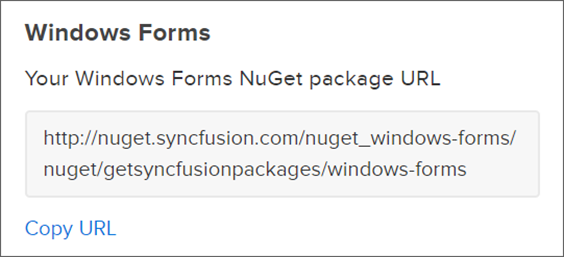
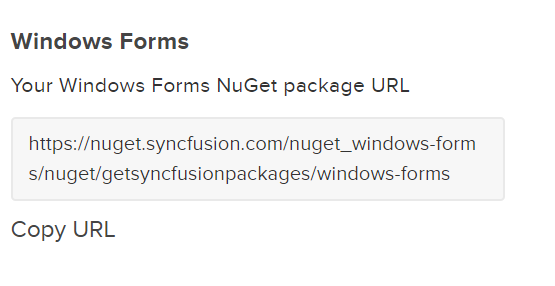
EXT-3461-NuGet-Feed-Changes

diff --git a/WindowsForms/NuGet-Packages.md b/WindowsForms/NuGet-Packages.md
@@ -22,7 +22,7 @@ You should get the private Syncfusion Windows Forms NuGet feed URL to install or
 
 2. Click the Copy URL label under Windows Forms platform to copy the Syncfusion Windows Forms platform NuGet feed to clipboard or directly use the following URL: 
 
-    [http://nuget.syncfusion.com/nuget_windowsforms/nuget/getsyncfusionpackages/windows-forms](http://nuget.syncfusion.com/nuget_windowsforms/nuget/getsyncfusionpackages/windows-forms) 
+    [https://nuget.syncfusion.com/nuget_windows-forms/nuget/getsyncfusionpackages/windows-forms](https://nuget.syncfusion.com/nuget_windows-forms/nuget/getsyncfusionpackages/windows-forms) 
 
     ![](NuGet_Packages_Images/img1.png)
 
@@ -40,7 +40,7 @@ You should get the private Syncfusion Windows Forms NuGet feed URL to install or
 
     **Name:** Name of the package listed in the available package sources.
     **Source:** Syncfusion Windows Forms NuGet Feed URL      
-    [http://nuget.syncfusion.com/nuget_windowsforms/nuget/getsyncfusionpackages/windows-forms](http://nuget.syncfusion.com/nuget_windowsforms/nuget/getsyncfusionpackages/windows-forms).
+    [https://nuget.syncfusion.com/nuget_windows-forms/nuget/getsyncfusionpackages/windows-forms](https://nuget.syncfusion.com/nuget_windows-forms/nuget/getsyncfusionpackages/windows-forms).
 
 5.	Click the **Update** button to add the name and source details to package sources. 
 
@@ -87,7 +87,7 @@ To reference the Syncfusion Windows Forms component using the Package Manager Co
     Install-Package Syncfusion.Chart.Windows46
 
     #install specified package in default project with specified Package Source
-    Install-Package Syncfusion.Chart.Windows46-Source “http://nuget.syncfusion.com/nuget_windowsforms/nuget/getsyncfusionpackages/windows-forms”
+    Install-Package Syncfusion.Chart.Windows46-Source “https://nuget.syncfusion.com/nuget_windows-forms/nuget/getsyncfusionpackages/windows-forms”
 
     #install specified package in specified project 
     Install-Package Syncfusion.Chart.Windows46 -ProjectName SyncfusionDemoApplication
@@ -117,7 +117,7 @@ The NuGet Command Line Interface (CLI), nuget.exe, provides the full extent of N
     **For example:**
 
     ~~~
-    nuget.exe Sources Add –Name “Syncfusion Source” –Source “http://nuget.syncfusion.com/nuget_windowsforms/nuget/getsyncfusionpackages/windows-forms”
+    nuget.exe Sources Add –Name “Syncfusion Source” –Source “https://nuget.syncfusion.com/nuget_windows-forms/nuget/getsyncfusionpackages/windows-forms”
     ~~~
 
 ### NuGet installation
@@ -141,7 +141,7 @@ nuget.exe install “Syncfusion.Chart.Windows46”
 nuget.exe install “C:\Users\SyncfusionApplication\package.config”
 
 #install specific Syncfusion NuGet package with specific Syncfusion Package Source
-nuget.exe install “Syncfusion.Chart.Windows46”  –Source “http://nuget.syncfusion.com/nuget_windowsforms/nuget/getsyncfusionpackages/windows-forms”
+nuget.exe install “Syncfusion.Chart.Windows46”  –Source “https://nuget.syncfusion.com/nuget_windows-forms/nuget/getsyncfusionpackages/windows-forms”
 ~~~
 
 ## Upgrading NuGet packages
@@ -184,7 +184,7 @@ To update the installed Syncfusion Windows Forms NuGet packages using the Packag
     Update-Package Syncfusion.Chart.Windows46
 
     #Update specified package in default project with specified Package Source
-    Update-Package Syncfusion.Chart.Windows46 –Source “http://nuget.syncfusion.com/nuget_windowsforms/nuget/getsyncfusionpackages/windows-forms”
+    Update-Package Syncfusion.Chart.Windows46 –Source “https://nuget.syncfusion.com/nuget_windows-forms/nuget/getsyncfusionpackages/windows-forms”
 
     #Update specified package in specified project 
     Update-Package Syncfusion.Chart.Windows46 -ProjectName SyncfusionDemoApplication
@@ -221,7 +221,7 @@ Using the NuGet CLI, all the NuGet packages in the project can be updated to the
     nuget update “C:\Users\SyncfusionApplication\package.config”
 
     #Update all NuGet packages from specified Packages Source
-    nuget update -Source “http://nuget.syncfusion.com/nuget_windowsforms/nuget/getsyncfusionpackages/windows-forms”
+    nuget update -Source “https://nuget.syncfusion.com/nuget_windows-forms/nuget/getsyncfusionpackages/windows-forms”
     ~~~
 
    
